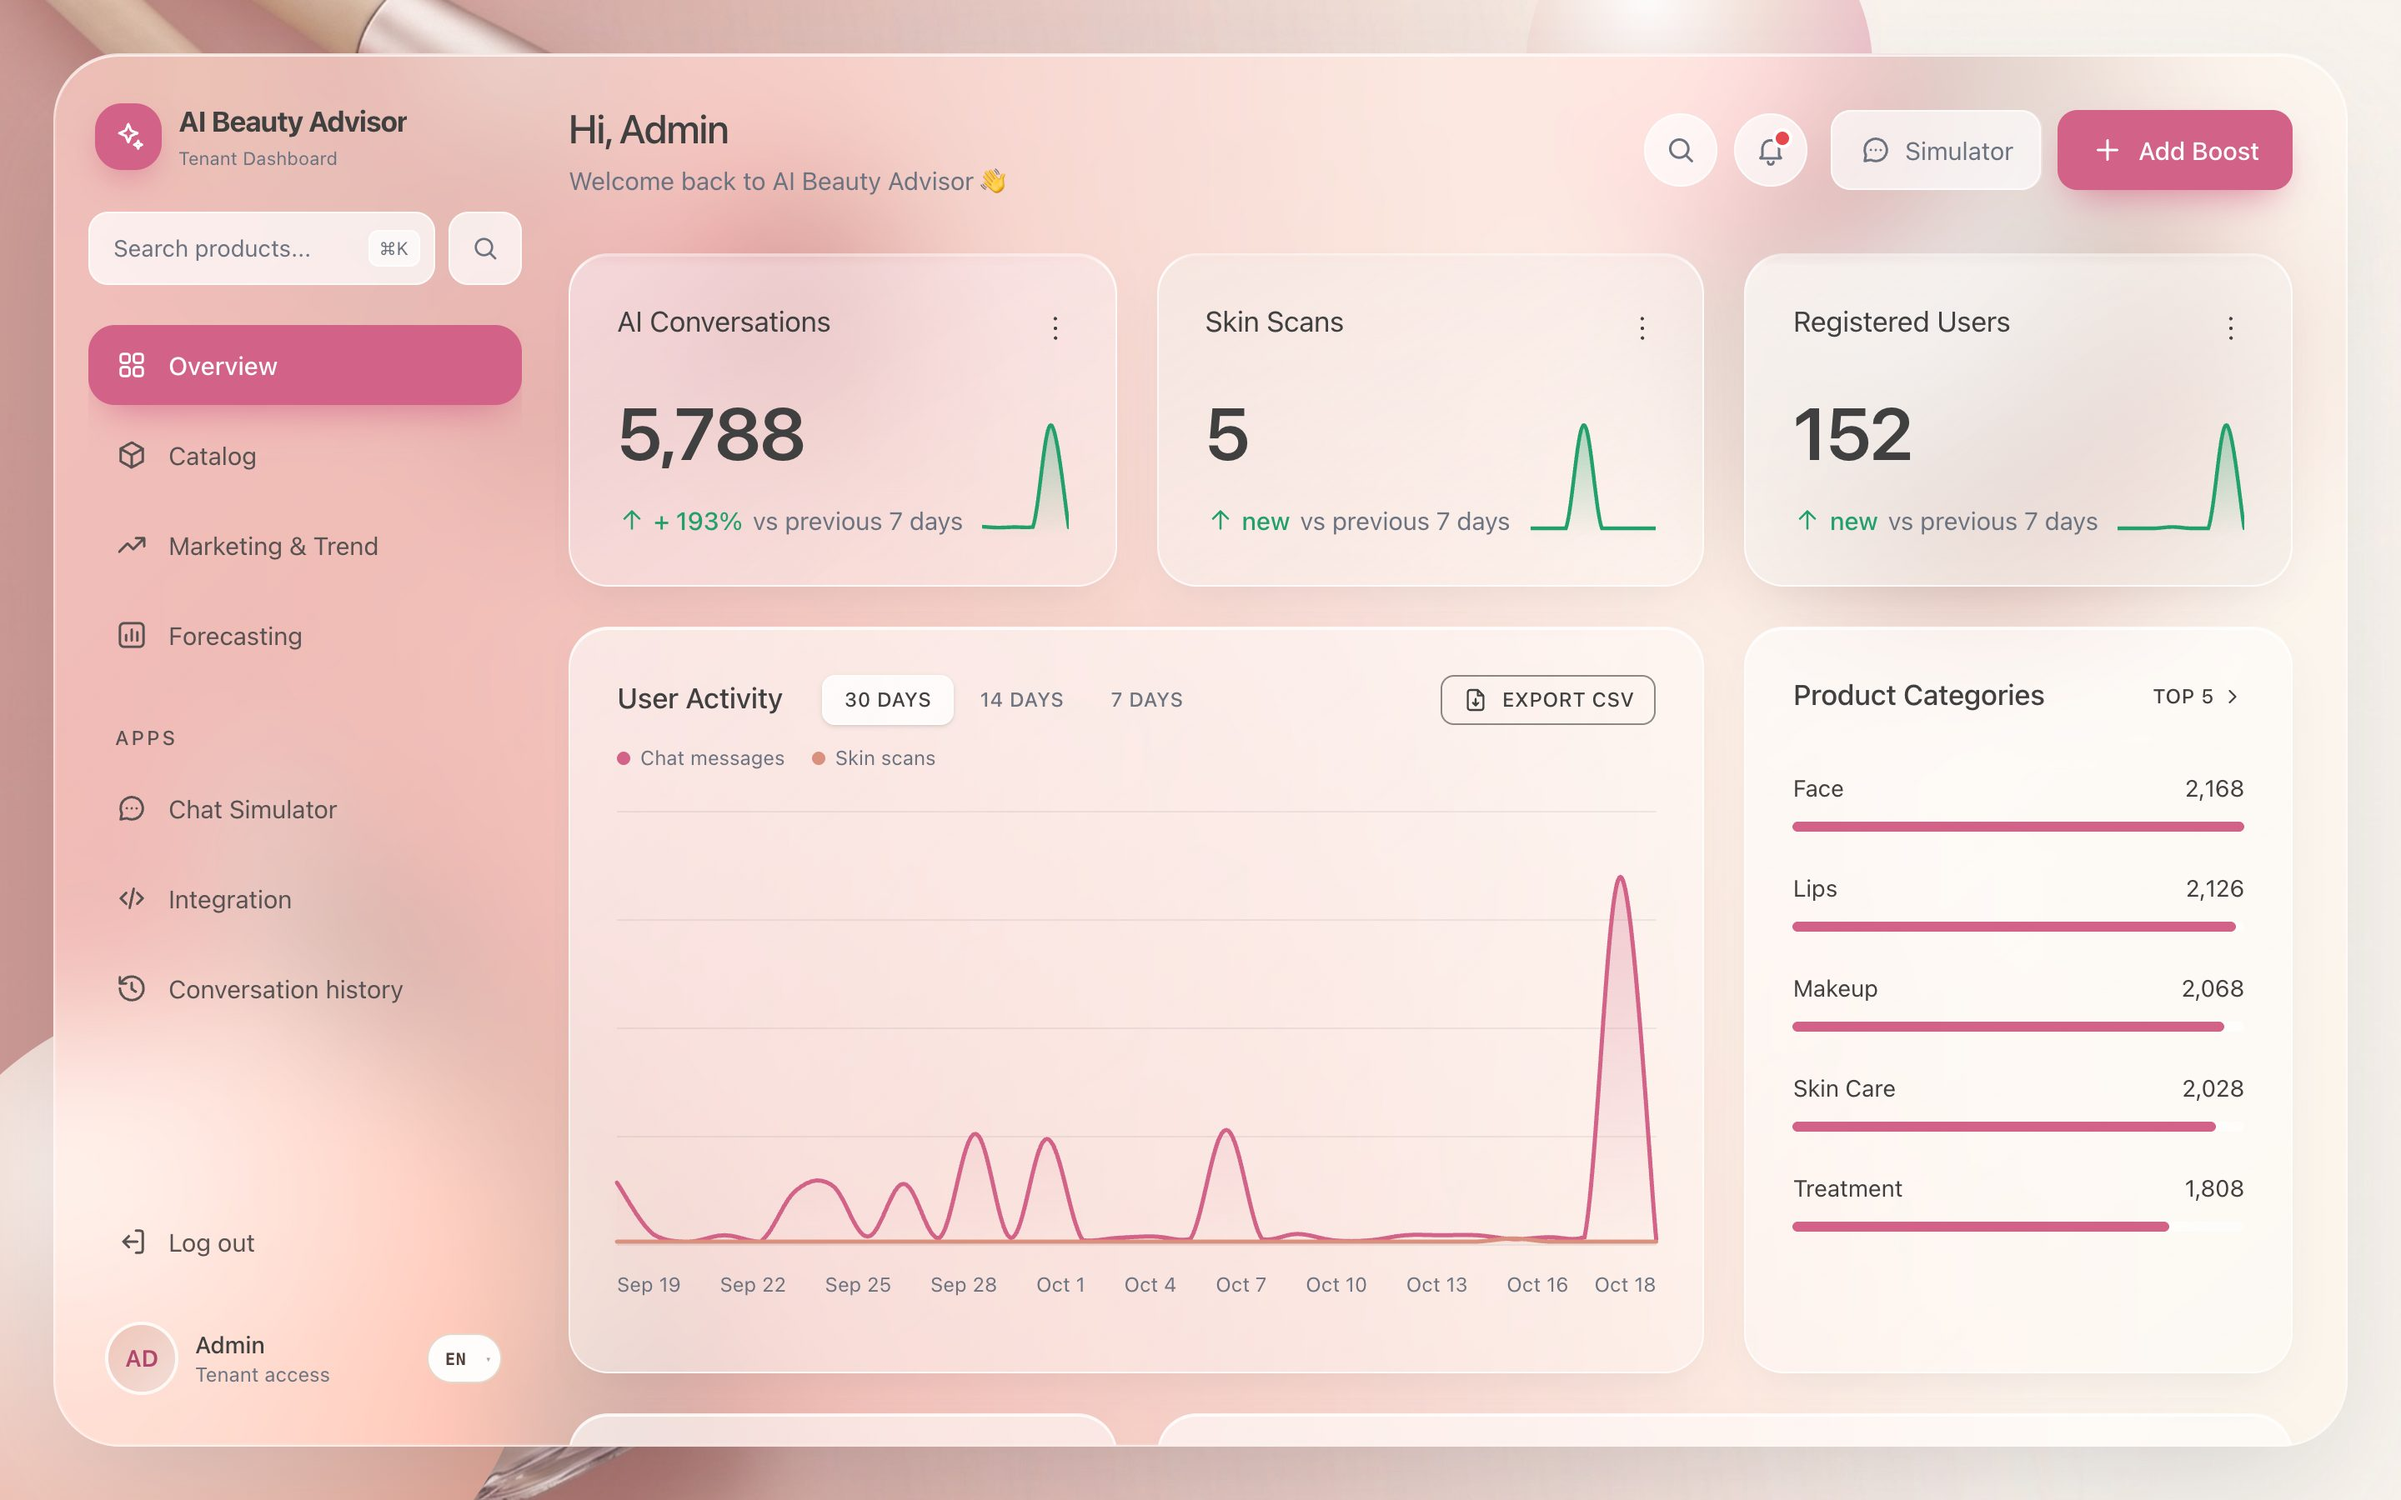
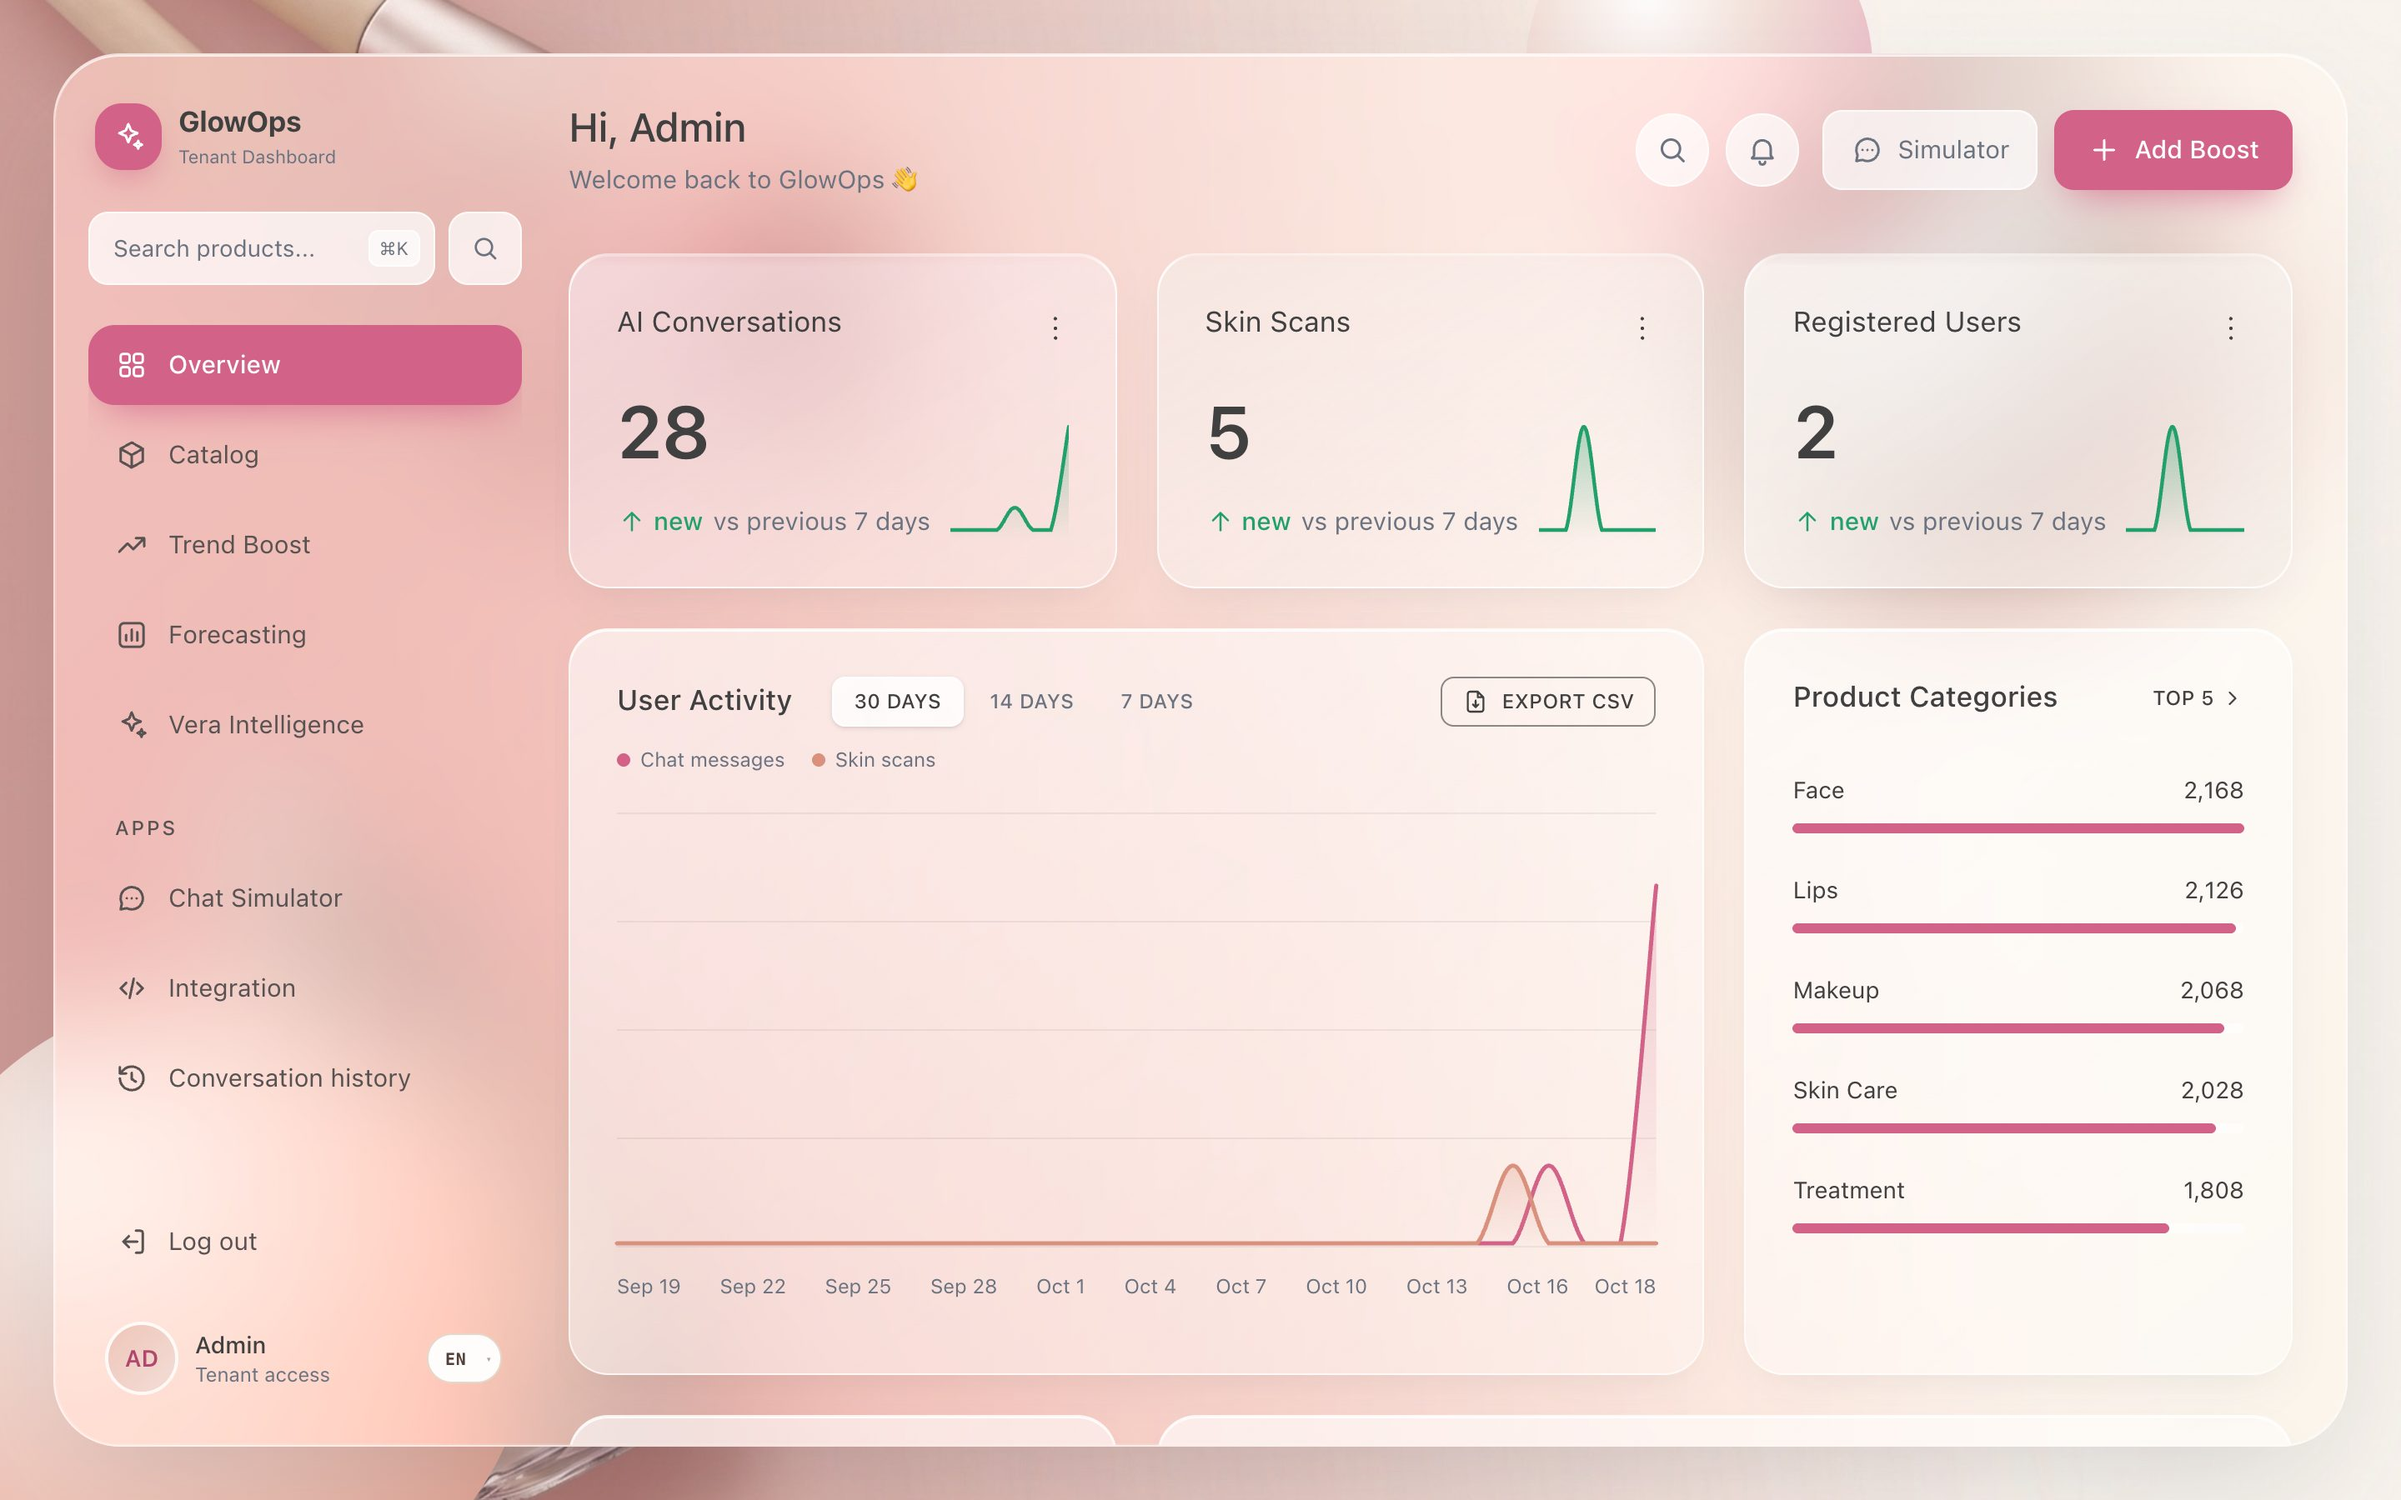
Feat: rebrand to GlowOps, restructure landing page around the 3 pillars
Implements the landing-page-refactor brief: the page now speaks to a
seller/brand owner first, not a shopper.

- Product renamed to GlowOps everywhere it appears as a wordmark (nav
  logo, admin sidebar appName, admin welcome text, footer) — 'Beauty
  Advisor' now names pillar 3 specifically instead of the whole product.
- New '3 Pillars' overview section right after the hero: Sales
  Intelligence, Forecasting & Demand Signal, Personalized Beauty Advisor.
- New Sales Intelligence detail section with a real screenshot of the
  Vera Intelligence chat answering the 9.9 event question.
- New Forecasting & Demand Signal detail section, reusing the
  forecasting screenshot (now including the daily insight card).
- The old Features section is reframed as the Personalized Beauty
  Advisor detail: card copy now names the specific categories (eye
  shadow, lipstick, blush, foundation/powder shade) and the face-shape
  trend recommendation, instead of generic 'scan to checkout' copy.
- The old Retailers section is cut down to just the embed snippet and
  'Open the dashboard' CTA, dropping its now-redundant bullet list and
  screenshot gallery (that content moved into the 2 new detail sections
  above).
- All 'Live Demo' CTAs relabeled 'See the customer experience' so a
  seller-first visitor knows they're previewing the shopper-facing
  widget, not a seller tool.
- New FAQ entry up front: 'Is this for me or my customers?'
[…]

diff --git a/apps/web/components/landing/LandingPage.tsx b/apps/web/components/landing/LandingPage.tsx
@@ -111,7 +111,7 @@ export async function LandingPage({ locale, productCount }: { locale: string; pr
             <span className="flex h-9 w-9 items-center justify-center rounded-xl bg-admin-accent text-white shadow-[0_8px_20px_-6px_rgb(210_98_135/0.7)]">
               <IconSparkle size={18} />
             </span>
-            <span className="whitespace-nowrap text-[15px] font-bold tracking-tight text-neutral-700">AI Beauty Advisor</span>
+            <span className="whitespace-nowrap text-[15px] font-bold tracking-tight text-neutral-700">GlowOps</span>
           </Link>
           <div className="ml-4 hidden items-center gap-1 lg:flex">
             {anchors.map((a) => (
@@ -197,6 +197,24 @@ export async function LandingPage({ locale, productCount }: { locale: string; pr
           </div>
         </section>
 
+        {/* 3 Pillars overview */}
+        <section aria-labelledby="pillars" className="pb-16">
+          <SectionTitle id="pillars" eyebrow={t("pillars.eyebrow")} title={t("pillars.title")} />
+          <div className="mt-10 grid gap-5 md:grid-cols-3">
+            {[
+              { icon: <IconSparkle size={20} />, name: t("pillars.p1.name"), body: t("pillars.p1.body") },
+              { icon: <IconTrend size={20} />, name: t("pillars.p2.name"), body: t("pillars.p2.body") },
+              { icon: <IconChat size={20} />, name: t("pillars.p3.name"), body: t("pillars.p3.body") },
+            ].map((p) => (
+              <article key={p.name} className="glass-card rounded-[24px] p-6 sm:p-7">
+                <span className="flex h-11 w-11 items-center justify-center rounded-2xl bg-admin-accent text-white shadow-[0_8px_20px_-8px_rgb(210_98_135/0.7)]">{p.icon}</span>
+                <h3 className="mt-4 text-lg font-semibold text-neutral-700">{p.name}</h3>
+                <p className="mt-2 text-[14.5px] leading-relaxed text-neutral-500">{p.body}</p>
+              </article>
+            ))}
+          </div>
+        </section>
+
         {/* Facts */}
         <section className="grid grid-cols-2 gap-4 lg:grid-cols-4">
           {facts.map((f) => (
@@ -209,7 +227,7 @@ export async function LandingPage({ locale, productCount }: { locale: string; pr
 
         {/* Features */}
         <section aria-labelledby="features" className="scroll-mt-28 py-24">
-          <SectionTitle id="features" title={t("features.title")} subtitle={t("features.subtitle")} />
+          <SectionTitle id="features" eyebrow={t("features.eyebrow")} title={t("features.title")} subtitle={t("features.subtitle")} />
           <div className="mt-12 grid gap-6 lg:grid-cols-2">
             <article className="glass-card flex flex-col overflow-hidden rounded-[26px] p-6 sm:p-8">
               <span className="flex h-11 w-11 items-center justify-center rounded-2xl bg-admin-accent/12 text-admin-accent-strong">
@@ -251,6 +269,43 @@ export async function LandingPage({ locale, productCount }: { locale: string; pr
           </div>
         </section>
 
+        {/* Sales Intelligence */}
+        <section aria-labelledby="sales-intel" className="scroll-mt-28 pb-24">
+          <div className="grid items-center gap-10 lg:grid-cols-2">
+            <div>
+              <div className="text-xs font-semibold uppercase tracking-[0.14em] text-admin-accent-strong">{t("salesIntel.eyebrow")}</div>
+              <h2 id="sales-intel" className="mt-2 text-3xl font-semibold tracking-tight text-neutral-700 sm:text-4xl">
+                {t("salesIntel.title")}
+              </h2>
+              <p className="mt-3 text-base leading-relaxed text-neutral-500">{t("salesIntel.subtitle")}</p>
+              <div className="glass-inset mt-6 inline-flex items-center gap-2 rounded-xl px-4 py-2.5 text-sm text-neutral-700">
+                <IconChat size={16} className="shrink-0 text-admin-accent-strong" />
+                {t("salesIntel.sampleQ")}
+              </div>
+            </div>
+            <BrowserFrame>
+              <Shot src={`${shots}/desktop-admin-insight.jpg`} alt={t("salesIntel.shotAlt")} width={2880} height={1800} className="h-auto w-full" />
+            </BrowserFrame>
+          </div>
+        </section>
+
+        {/* Forecasting & Demand Signal */}
+        <section aria-labelledby="demand-signal" className="scroll-mt-28 pb-24">
+          <div className="grid items-center gap-10 lg:grid-cols-2">
+            <BrowserFrame className="lg:order-2">
+              <Shot src={`${shots}/desktop-admin-forecasting.jpg`} alt={t("demandSignal.shotAlt")} width={2880} height={1800} className="h-auto w-full" />
+            </BrowserFrame>
+            <div className="lg:order-1">
+              <div className="text-xs font-semibold uppercase tracking-[0.14em] text-admin-accent-strong">{t("demandSignal.eyebrow")}</div>
+              <h2 id="demand-signal" className="mt-2 text-3xl font-semibold tracking-tight text-neutral-700 sm:text-4xl">
+                {t("demandSignal.title")}
+              </h2>
+              <p className="mt-3 text-base leading-relaxed text-neutral-500">{t("demandSignal.subtitle")}</p>
+              <p className="mt-4 text-xs text-neutral-400">{t("demandSignal.demoNote")}</p>
+            </div>
+          </div>
+        </section>
+
         {/* How it works */}
         <section aria-labelledby="how" className="scroll-mt-28 pb-24">
           <SectionTitle id="how" title={t("how.title")} />
@@ -266,52 +321,25 @@ export async function LandingPage({ locale, productCount }: { locale: string; pr
           </ol>
         </section>
 
-        {/* Retailers */}
-        <section aria-labelledby="retailers" className="glass-frame scroll-mt-28 rounded-[32px] p-6 sm:p-10 lg:rounded-[40px]">
-          <div className="grid items-center gap-10 lg:grid-cols-[0.9fr_1.1fr]">
-            {/* min-w-0: the long <pre> snippet must scroll inside, not widen the grid column. */}
-            <div className="min-w-0">
-              <div className="text-xs font-semibold uppercase tracking-[0.14em] text-admin-accent-strong">{t("retailers.eyebrow")}</div>
-              <h2 id="retailers" className="mt-2 text-3xl font-semibold tracking-tight text-neutral-700 sm:text-4xl">
-                {t("retailers.title")}
-              </h2>
-              <p className="mt-3 text-base leading-relaxed text-neutral-500">{t("retailers.subtitle")}</p>
-              <ul className="mt-6 flex flex-col gap-3">
-                {[
-                  { icon: <IconChat size={18} />, text: t("retailers.b1") },
-                  { icon: <IconSparkle size={18} />, text: t("retailers.b2") },
-                  { icon: <IconTrend size={18} />, text: t("retailers.b3") },
-                ].map((b) => (
-                  <li key={b.text} className="flex items-start gap-3 text-[15px] text-neutral-700">
-                    <span className="mt-0.5 flex h-7 w-7 shrink-0 items-center justify-center rounded-lg bg-admin-accent/12 text-admin-accent-strong">{b.icon}</span>
-                    {b.text}
-                  </li>
-                ))}
-              </ul>
-              <div className="mt-6">
-                <div className="mb-2 flex items-center gap-2 text-xs font-medium text-neutral-500">
-                  <IconCode size={14} /> {t("retailers.snippetLabel")}
-                </div>
-                <pre className="overflow-x-auto rounded-xl bg-neutral-700 px-4 py-3 text-xs text-neutral-100">{SNIPPET}</pre>
+        {/* Get started */}
+        <section aria-labelledby="retailers" className="glass-frame scroll-mt-28 rounded-[32px] p-6 text-center sm:p-10 lg:rounded-[40px]">
+          <div className="mx-auto max-w-xl">
+            <div className="text-xs font-semibold uppercase tracking-[0.14em] text-admin-accent-strong">{t("retailers.eyebrow")}</div>
+            <h2 id="retailers" className="mt-2 text-3xl font-semibold tracking-tight text-neutral-700 sm:text-4xl">
+              {t("retailers.title")}
+            </h2>
+            <p className="mt-3 text-base leading-relaxed text-neutral-500">{t("retailers.subtitle")}</p>
+            <div className="mt-6 text-left">
+              <div className="mb-2 flex items-center gap-2 text-xs font-medium text-neutral-500">
+                <IconCode size={14} /> {t("retailers.snippetLabel")}
               </div>
-              <Link href="/login" className={`${btnPrimaryCls} mt-6`}>
-                {t("retailers.cta")}
-                <IconArrowRight size={16} />
-              </Link>
+              <pre className="overflow-x-auto rounded-xl bg-neutral-700 px-4 py-3 text-xs text-neutral-100">{SNIPPET}</pre>
             </div>
-            <BrowserFrame>
-              <Shot src={`${shots}/desktop-widget.jpg`} alt={t("retailers.widgetAlt")} width={2880} height={1800} className="h-auto w-full" />
-            </BrowserFrame>
+            <Link href="/login" className={`${btnPrimaryCls} mt-6`}>
+              {t("retailers.cta")}
+              <IconArrowRight size={16} />
+            </Link>
           </div>
-          <div className="mt-8 grid gap-6 md:grid-cols-2">
-            <BrowserFrame>
-              <Shot src={`${shots}/desktop-admin-forecasting.jpg`} alt={t("retailers.forecastAlt")} width={2880} height={1800} className="h-auto w-full" />
-            </BrowserFrame>
-            <BrowserFrame>
-              <Shot src={`${shots}/desktop-admin-conversations.jpg`} alt={t("retailers.convAlt")} width={2880} height={1800} className="h-auto w-full" />
-            </BrowserFrame>
-          </div>
-          <p className="mt-4 text-center text-xs text-neutral-500">{t("retailers.demoNote")}</p>
         </section>
 
         {/* FAQ */}

diff --git a/services/ai-advisor/app/insight.py b/services/ai-advisor/app/insight.py
@@ -27,8 +27,11 @@ SYSTEM_PROMPT = (
     "actionable suggestions grounded in what the data actually shows "
     "(e.g. what changed between a weak event and a strong one), not "
     "generic marketing advice. Keep the whole answer under roughly 180 "
-    "words — short paragraphs or a short bulleted list, never a wall of "
-    "text, and always finish your last sentence instead of trailing off."
+    "words, in short plain-text paragraphs, and always finish your last "
+    "sentence instead of trailing off. The UI that shows your reply "
+    "renders plain text only, not markdown, so never use **bold**, "
+    "bullet characters like *, or markdown headings. For a list, write "
+    "it as numbered sentences like '1. ... 2. ...' on their own lines."
 )
 
 
